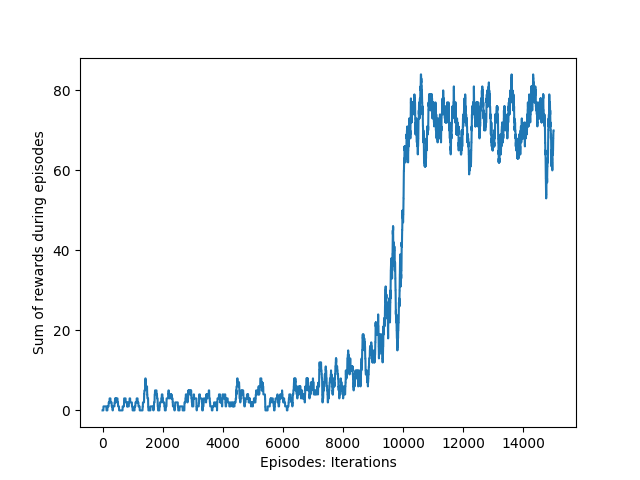
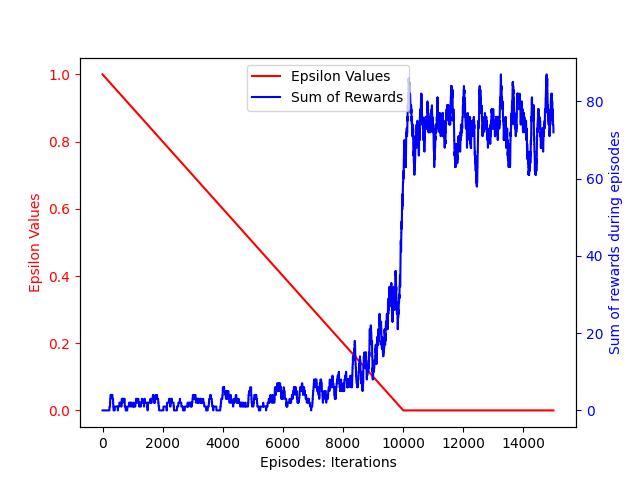
updates

diff --git a/RL Methods/Q-learning/QLearning.py b/RL Methods/Q-learning/QLearning.py
@@ -3,11 +3,10 @@ import gymnasium as gym
 import numpy as np
 import matplotlib.pyplot as plt
 
-
 # Run function, in which we pass in the number of episodes.
 def run(episodes, render=False):
     # actions: 0=left, 1=down, 2=right, 3=up
-    # rewards: Reach goal=+1, Reach hole=0, Reach frozen=0
+    # rewards: Reach goal=+1, Reach hole=0, Reach frozen=0e
 
     # Create the map and store.
     env = gym.make('FrozenLake-v1', desc=None, map_name="4x4", is_slippery=True, render_mode="human" if render else None)
@@ -21,15 +20,14 @@ def run(episodes, render=False):
     # gamma or discount factor
     gamma = 0.9
 
-
     #100% random actions; epsilon is the value that determines exploration vs. explotation.
     epsilon = 1
-    #epsilon decay rate | 1/0.0001 = 10,000
-    epsilon_decay = 0.0001
-    randomNum = np.random.default_rng()
+    epsilon_decay = 0.0001 # epsilon decay rate | 1/0.0001 = 10,000
+    randomNum = np.random.default_rng() # Random number, for the conditonal.
 
-    # For graph; intialize the rewards in every episode to 0.
+    # For graph: intialize the rewards, epsilons to 0.
     rewardsPerEpisode = np.zeros(episodes)
+    epsilonPerEp = np.zeros(episodes)
 
     # Initalize list of zeros, holding the average reward per epiosde.
     avgRewardPerEp = np.zeros(episodes)
@@ -68,6 +66,9 @@ def run(episodes, render=False):
             # Increment our step counter 
             steps += 1
 
+        # Note the epsilon used for the episode.     
+        epsilonPerEp[i] = epsilon
+
         # After each episode, we decrease our epsilon until it gets to 0.
         epsilon = max(epsilon - epsilon_decay, 0)
 
@@ -99,18 +100,70 @@ def run(episodes, render=False):
     print(f"Percentage of Successful Episodes: {percentage_successful_episodes}%")
     print(f"Average Steps to Reach Goal: {average_steps_to_reach_goal}")
 
-
     # Plot of the rewards vs. Episodes; running sum of the rewards of every 100 episodes.
     sum_rewards = np.zeros(episodes)
     for t in range(episodes):
         sum_rewards[t] = np.sum(rewardsPerEpisode[max(0,t-100):(t+1)])
-    plt.plot(sum_rewards)
-    plt.xlabel("Episodes: Iterations")
-    plt.ylabel("Sum of rewards during episodes")
-    plt.savefig("QLearningFrozenLake.png")
+    
+    # Create a sub-plot.
+    fig, ax1 = plt.subplots()
 
+    # Create a second y-axis
+    ax1.plot(epsilonPerEp, label='Epsilon Values', color='r')
+    ax1.set_xlabel('Episodes: Iterations')
+    ax1.set_ylabel('Epsilon Values', color='r')
+    ax1.tick_params('y', colors='r')
+
+    # Plot sum of rewards on the first y-axis
+    ax2 = ax1.twinx() # Used for the graphing software of both in one.
+    ax2.plot(sum_rewards, label='Sum of Rewards', color='b')
+    ax2.set_ylabel('Sum of rewards during episodes', color='b')
+    ax2.tick_params('y', colors='b')
+
+    # Combine legends from both axes
+    lines, labels = ax1.get_legend_handles_labels()
+    lines2, labels2 = ax2.get_legend_handles_labels()
+    ax2.legend(lines + lines2, labels + labels2, loc='upper center')
+
+    plt.savefig("RL Methods/Q-learning/QLearningFrozenLake.png")
+    #plt.show()
 
 # Used to run the Q-learning method.
 if __name__ == '__main__':
     run(15000)
+
+
+'''
+# import pickle
+
+# Added to arguments.
+is_training = true
+
+# Added under the env create.
+if(is_training):
+    q = np.zeros((env.observation_space.n, env.action_space.n)) # init a 64 x 4 array
+else:
+    f = open('frozen_lake8x8.pkl', 'rb')
+    q = pickle.load(f)
+    f.close()
+
+# Added under the plotting, to store the q-table.
+if is_training:
+        f = open("frozen_lake8x8.pkl","wb")
+        pickle.dump(q, f)
+        f.close()
+
+
+# For the two following if's, simply add the is_training to the condtional.
+if is_training and rng.random() < epsilon:
+    action = env.action_space.sample() # actions: 0=left,1=down,2=right,3=up
+else:
+    action = np.argmax(q[state,:])
+
+    new_state,reward,terminated,truncated,_ = env.step(action)
+
+if is_training:
+    q[state,action] = q[state,action] + learning_rate_a * (reward + discount_factor_g * np.max(q[new_state,:]) - q[state,action])
+
+'''
 

diff --git a/RL Methods/Q-learning/Tester.py b/RL Methods/Q-learning/Tester.py
@@ -9,7 +9,7 @@ def run(episodes, render=False):
     # rewards: Reach goal=+1, Reach hole=0, Reach frozen=0
 
     # Create the map and store.
-    env = gym.make('FrozenLake-v1', desc=None, map_name="4x4", is_slippery=True, render_mode="human" if render else None)
+    env = gym.make('FrozenLake-v1', desc=None, map_name="4x4", is_slippery=False, render_mode="human" if render else None)
 
     # Initializes an array 16 x 4 with zeroes; Q(s,a) for all state and actions = 0
     Q = np.zeros((env.observation_space.n, env.action_space.n))
@@ -33,6 +33,9 @@ def run(episodes, render=False):
     average_reward_per_episode = np.zeros(episodes)
     successful_episodes = 0
     steps_to_reach_goal = []
+
+    # Initialize epsilon values for plotting
+    epsilon_values = np.linspace(1, 0, episodes)
 
     for i in range(episodes):
 
@@ -91,13 +94,36 @@ def run(episodes, render=False):
     # Calculate average steps taken to reach the goal.
     average_steps_to_reach_goal = np.mean(steps_to_reach_goal) if steps_to_reach_goal else 0
 
+    # Plot rewards and epsilon decay
+    sum_rewards = np.zeros(episodes)
+    for t in range(episodes):
+        sum_rewards[t] = np.sum(rewardsPerEpisode[max(0,t-100):(t+1)])
+    plt.plot(sum_rewards, label='Sum of rewards during episodes')
+    plt.plot(epsilon_values, label='Epsilon decay', linestyle='--')
+    plt.xlabel("Episodes: Iterations")
+    plt.ylabel("Rewards/Epsilon")
+    plt.legend()
+    plt.show()
+
     # Return evaluation metrics.
-    return average_reward_per_episode, percentage_successful_episodes, average_steps_to_reach_goal
+    return average_reward_per_episode, percentage_successful_episodes, average_steps_to_reach_goal, epsilon_values
 
 # Used to run the Q-learning method and evaluate its performance.
 if __name__ == '__main__':
     episodes = 15000
-    average_reward_per_episode, percentage_successful_episodes, average_steps_to_reach_goal = run(episodes)
+    average_reward_per_episode, percentage_successful_episodes, average_steps_to_reach_goal, epsilon_values = run(episodes)
+    
+
+    # Plot rewards and epsilon decay
+    plt.figure(figsize=(10, 6))
+    plt.plot(average_reward_per_episode, label='Average Reward per Episode')
+    plt.plot(epsilon_values)
+    plt.xlabel("Episodes: Iterations")
+    plt.ylabel("Average Reward per Episode")
+    plt.ylim(0, 1)  # Set y-axis limits between 0 and 1
+    plt.legend()
+    plt.show()
+
 
     # Print evaluation metrics.
     print(f"Average Reward per Episode: {average_reward_per_episode[-1]}")

diff --git a/RL Methods/SARSA/sarsa.py b/RL Methods/SARSA/sarsa.py
@@ -105,7 +105,7 @@ def run(episodes, render=False):
     plt.plot(sum_rewards)
     plt.xlabel("Episodes: Iterations")
     plt.ylabel("Sum of rewards during episodes")
-    plt.savefig("SarsaFrozenLake.png")
+    plt.savefig("RL Methods/SARSA/SarsaFrozenLake.png")
 
 
 
